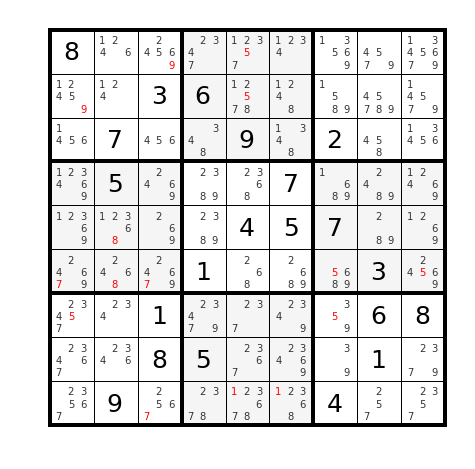
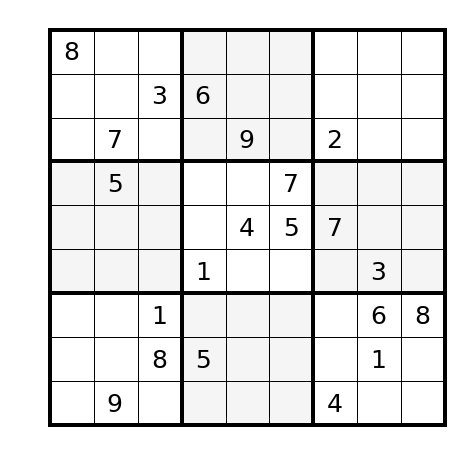
More write-up

diff --git a/README.md b/README.md
@@ -1,5 +1,4 @@
 ![Sudoku solve animation](./images/solve.gif)
-
 # A minimal Sudoku solver
 
 What you will find here:
@@ -17,13 +16,11 @@ version of the code](https://github.com/r1cc4rdo/sudoku/blob/master/sudoku/solve
 the "hard" boards from the plane's entertainment system. Back under the coverage of WiFi, it became soon obvious that
 Sudokus existed that my code could not solve: [searching for "hardest sudoku" on Google](https://www.telegraph.co.uk/news/science/science-news/9359579/Worlds-hardest-sudoku-can-you-crack-it.html),
 one typically lands on this Telegraph page for the infamous "Everest" board, from Arto Inkala.
-
 ![Stuck on the everest](./images/everest.png)
-
 There are dozens of strategies for solving sudokus. [My original code](https://github.com/r1cc4rdo/sudoku/blob/master/sudoku/solver_wo_search.py)
 only implemented three:
 
-* _basic elimination_ (remove a known value from peers candidates)
+* _basic elimination_ (remove a known value from peers' candidates)
 * _sole candidate_ (if all peers in a group cover all but 1 number, you're that number)
 * _naked twins_ (if two cells in a group share the same two candidate values, remove those values from peers)
 
@@ -68,6 +65,8 @@ Overall, those 7 lines of code cover the following (using name from [sudokuDrago
 * _only square_ (subset size: 8)
 * _two out of three_ (subset size: 8)
 * _sub-group exclusion_
+* _pointing pairs_
+* _pointing triples_
 * _naked twins_ (subset size: 2)
 * _hidden twins_ (subset size: 6)
 * _naked triplets_ (subset size: 3)
@@ -76,21 +75,28 @@ Overall, those 7 lines of code cover the following (using name from [sudokuDrago
 * _naked chains_
 * _hidden chains_
 
+So, _this is awesome_. This single rule suffices to solve most sudokus rated "very hard", "super fiendish", and
+equivalent. But it is sufficient to solve any and every sudoku board?
+![Stuck on the everest](./images/everest_marked.png)
+The answer is "no".
 
+Since it operates on a single group at a time, and propagates information within groups only if they
+share cells, it fails to capture the group to group dependencies exploited by [more advanced strategies](http://www.sudokudragon.com/advancedstrategy.htm).
+So surely, if we were to implement all of them, we would them be able to solve every sudoku, right?
 
-This rule subsumes several weaker rules for solving Sudokus.
-When subset_size == 1 and applied iteratively, it implements the basic elimination strategy that removes a known
-cell value from the possible candidates for peers. It also applies the "sole candidate", "unique candidate",
-"only square", "two out of three", and "sub-group exclusion" strategies (using the terminology of [1, 2]).
-When subset_size == 2, it is equivalent to applying the "hidden twins" rule (for subset of size 7), and the
-"naked twin" rule (for subsets of size 2). Equivalently, when subset_size == 3, implements "hidden triplets"
-(subset of size 6) and "naked triplet" (subset of size 3). In general, again using the terminology of [1, 2],
-when iterated it is a generic substitute for "general permutation", "naked chains", and "hidden chains".
+The answer is again, sadly, "no".
 
+One easy way to convince oneself of this is opening the [Everest board on SudokuWiki.com solver](http://www.sudokuwiki.org/sudoku.htm?bd=800000000003600000070090200050007000000045700000100030001000068008500010090000400).
+There, you can click repeatedly on the "Take step" button, which will apply a large collection of strategies to the
+board and still ultimately fail to recover the solution.
 
-This suffices to solve most sudokus rated "very hard", "super fiendish", and equivalent.
-Since this operates on a single group at a time, and propagates information within groups only if they
-share cells, it cannot solve all sudokus by itself.
+Let's have a second look at the Everest board shown above.
+
+The red numbers are
+
+you can generate with
+
+advanced strategies focus on creating chains of
 
 All the advanced strategies for solving very hard sudokus are based on graph-coloring and hypothesis testing.
 X-Wing, Swordfish, X-Y-Wing and extensions all look for either an even or odd number of chained conjugate pairs
